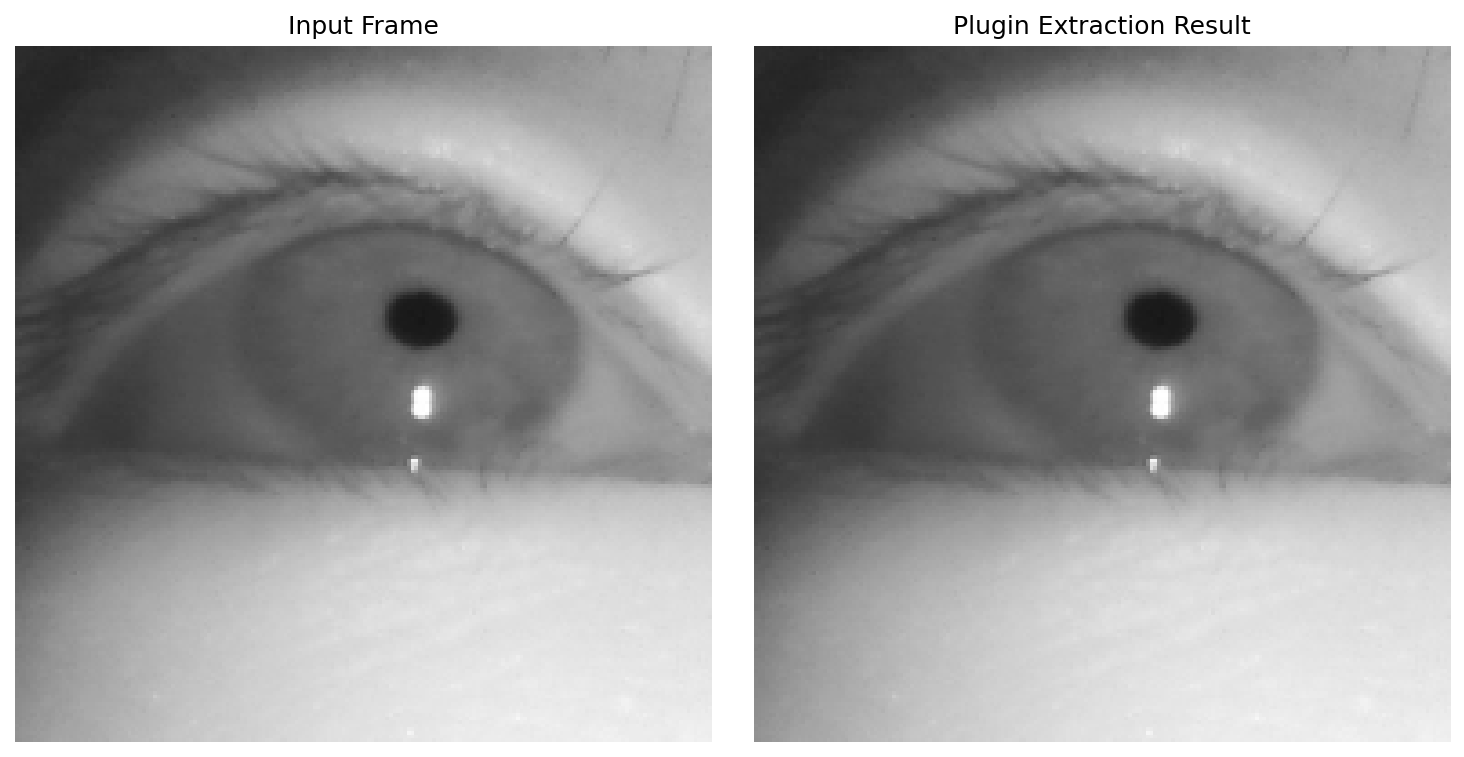
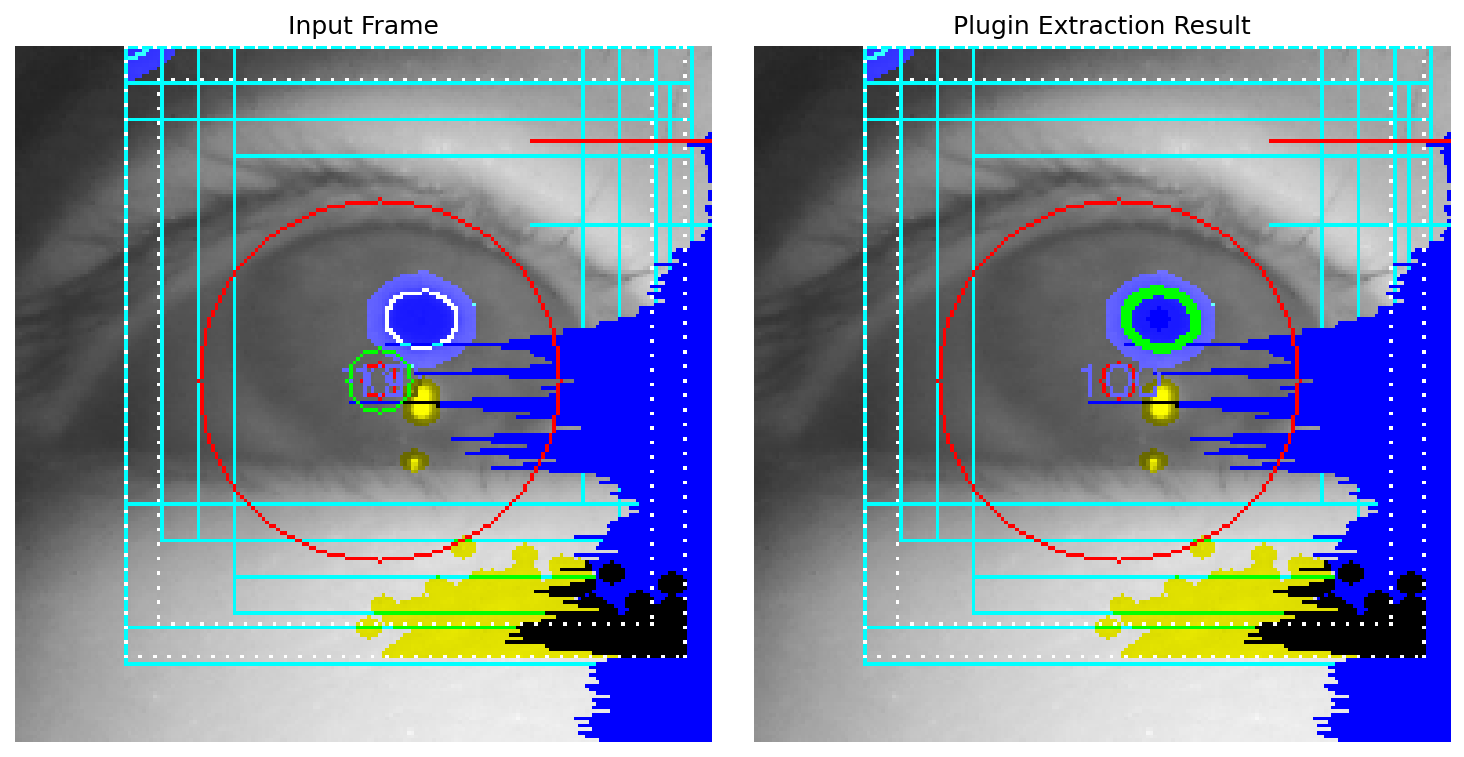
Tests

diff --git a/latency_dist.py b/latency_dist.py
@@ -40,16 +40,9 @@ start_timestamps = start_timestamps[:-1]
 # starts = starts[:-1]
 print(f"With total {len(latencies)} data: {np.mean(latencies):.4f} ± {np.std(latencies):.4f}")
 print(f"Average start timestamp: {np.mean(start_timestamps)}")
-'''
-#################### 5 Runs in iulab9 ####################
-AD-GBC result with total 5 data: 422.7390 ± 2.9498
-AD-GBC result average start timestamp: 2148055.580273004
 
-RITnet result with total 5 data: 98.6721 ± 2.0833
-RITnet result average start timestamp: 2148056.003025872
-'''
 
-#################### Loading from scratches #################
+#################### 100 loops in iulab9 #################
 # adgbc
 # With total 99 data: 102.7918 ± 22.2038
 # Average start timestamp: 2167746.3643981838
@@ -63,5 +56,5 @@ RITnet result average start timestamp: 2148056.003025872
 # With total 99 data: 6.4965 ± 0.4118
 # Average start timestamp: 2167986.227508659
 # 2dcpp
-# With total 5 data: 0.1381 ± 0.0033
-# Average start timestamp: 2162952.186956297
+# With total 99 data: 1.4109 ± 0.0637
+# Average start timestamp: 2168494.829089349

diff --git a/pupil_src/shared_modules/pupil_detector_plugins/detector_2d_plugin.py b/pupil_src/shared_modules/pupil_detector_plugins/detector_2d_plugin.py
@@ -8,7 +8,7 @@ Lesser General Public License (LGPL v3.0).
 See COPYING and COPYING.LESSER for license details.
 ---------------------------------------------------------------------------~(*)
 """
-DETECT_MODEL = "2dcpp" # adgbc, nn_ritnet, nn_unext, 2dcpp, ritnet
+DETECT_MODEL = "adgbc" # adgbc, nn_ritnet, nn_unext, 2dcpp, ritnet
 
 import logging
 import numpy as np

diff --git a/pupil_src/tests/test_extraction_plugin.py b/pupil_src/tests/test_extraction_plugin.py
@@ -127,7 +127,7 @@ def main():
     axes[1].axis('off')
 
     plt.tight_layout()
-    # plt.savefig(args.save_path, bbox_inches='tight', dpi=150)
+    plt.savefig(args.save_path, bbox_inches='tight', dpi=150)
     print(f"Visual results successfully commented out to: {args.save_path}")
     plt.close()
 
